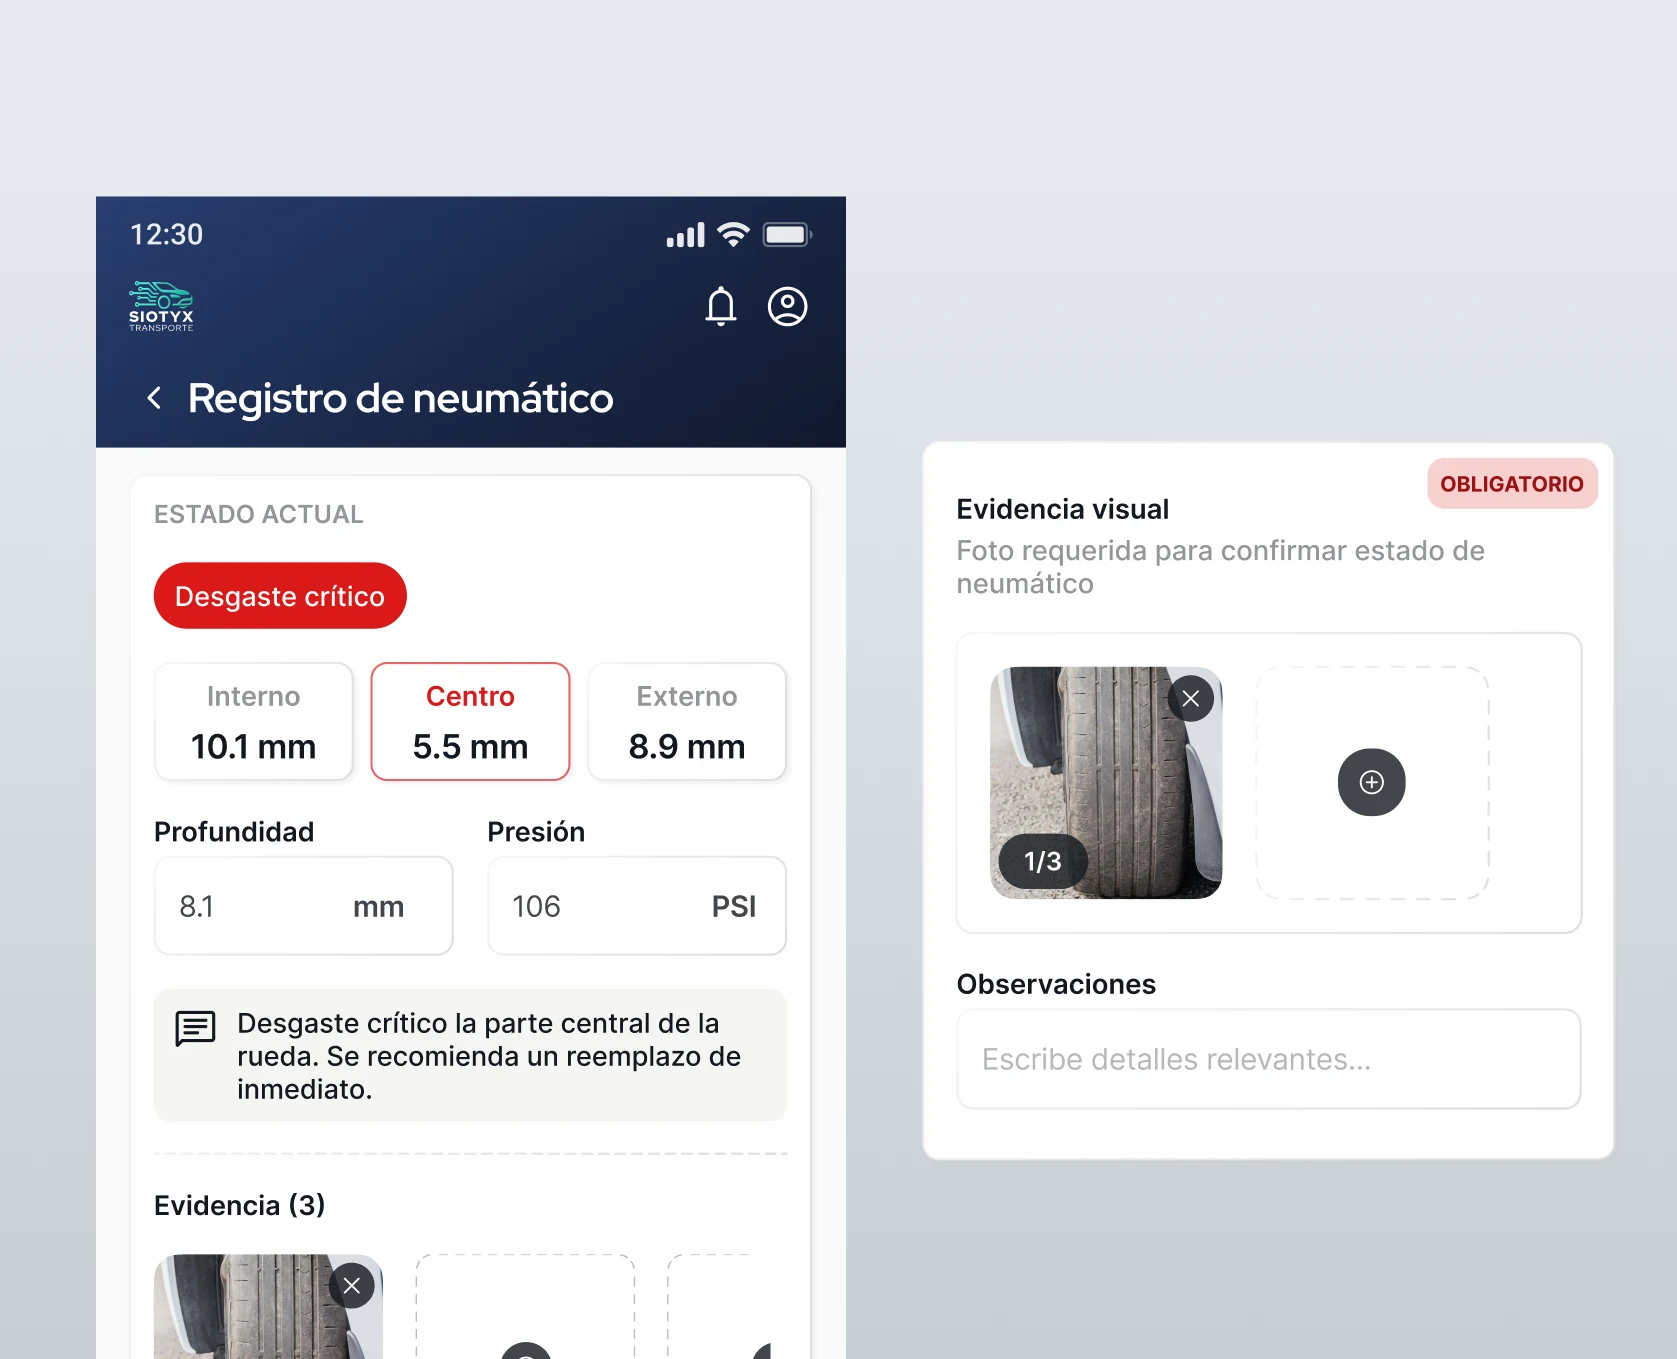
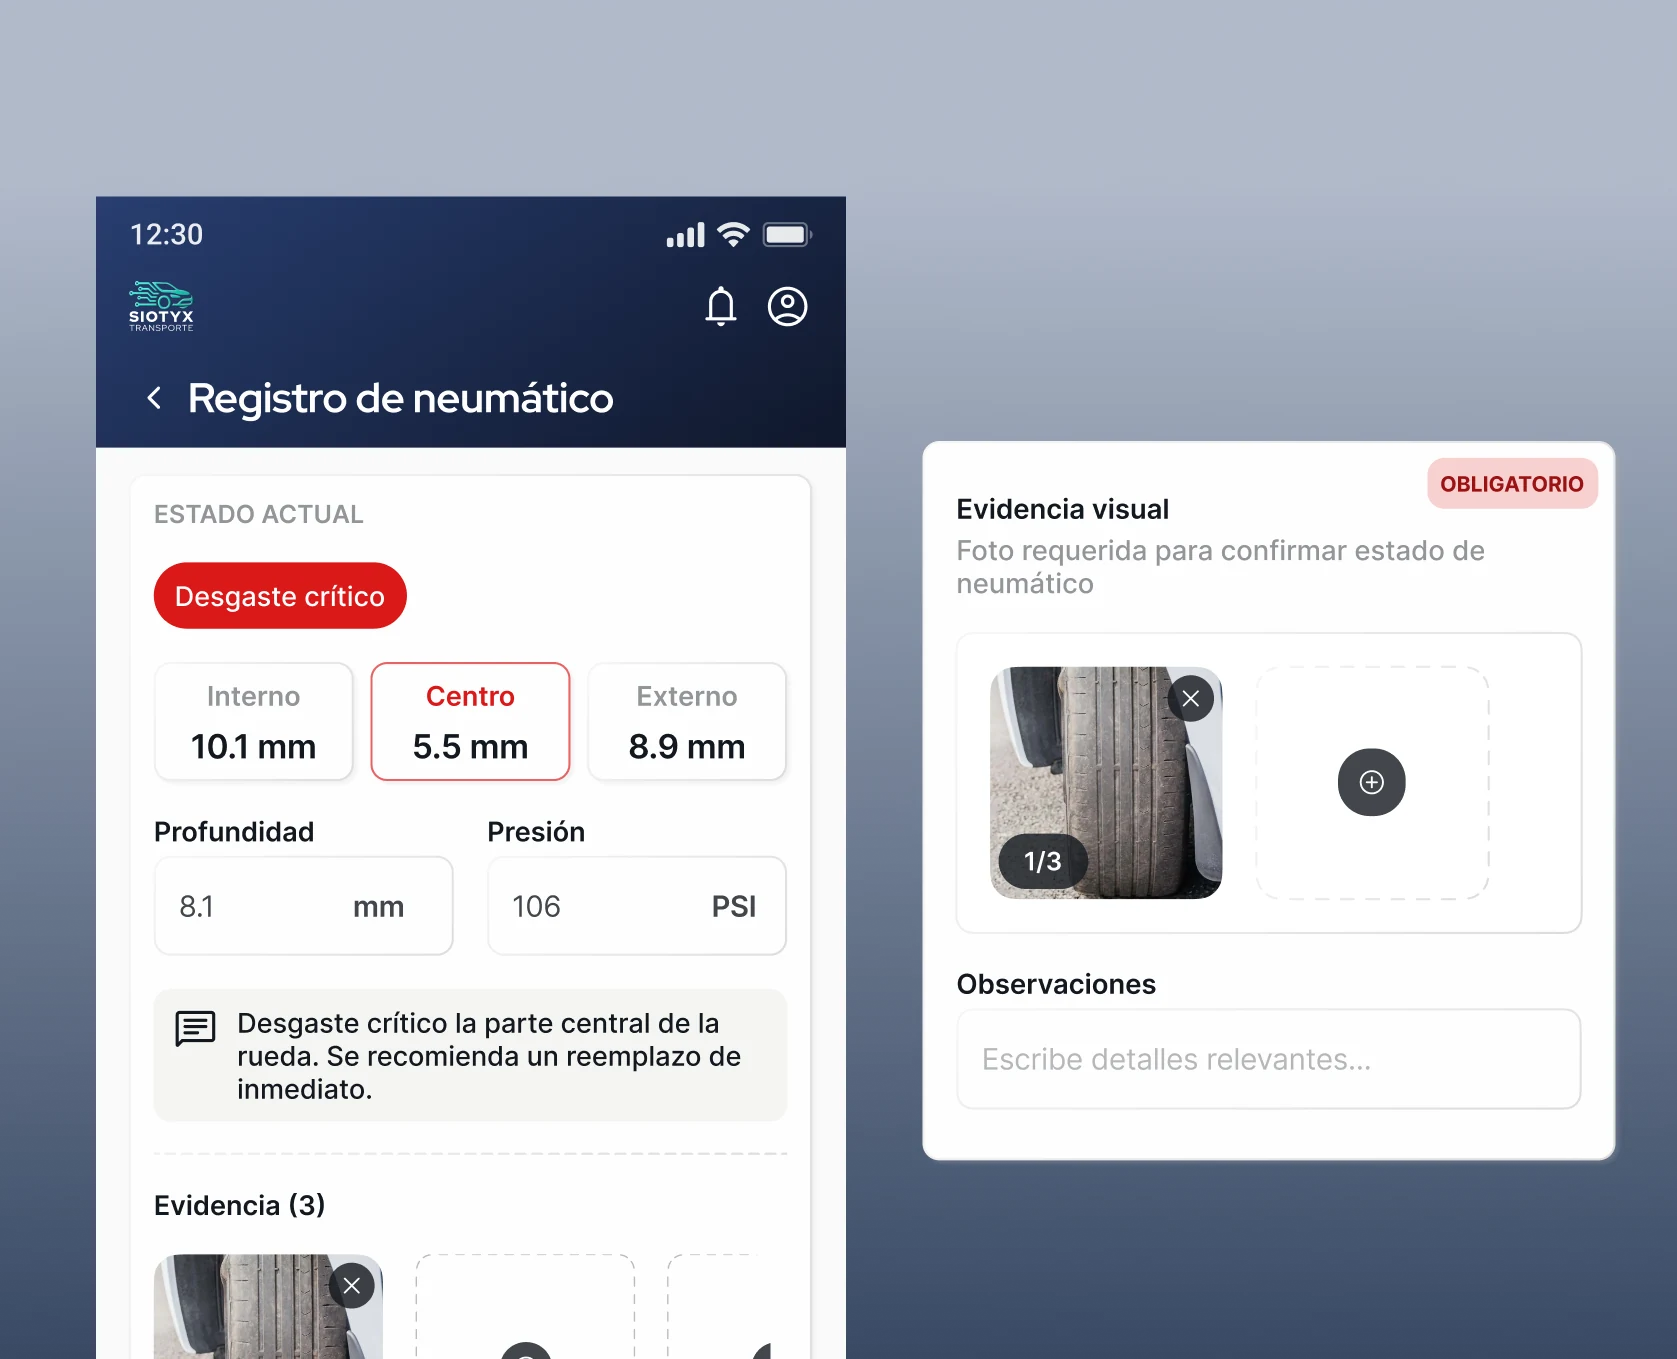
Correcciones de imagenes cards finales de transporte siotyx

diff --git a/pages/casos-de-estudio/transporte.html b/pages/casos-de-estudio/transporte.html
@@ -29,7 +29,7 @@
   <link rel="stylesheet" href="../../css/pages/caso.css?v=19">
   <!-- Capa editorial propia de ESTE caso: columnas alternadas, clímax,
        grilla despareja. Ver comentarios en el propio archivo. -->
-  <link rel="stylesheet" href="../../css/pages/caso-transporte.css?v=56">
+  <link rel="stylesheet" href="../../css/pages/caso-transporte.css?v=57">
 </head>
 <body>
 
@@ -337,11 +337,6 @@
       <h2>Tres decisiones chicas</h2>
       <div class="detalles">
         <article class="detalle">
-          <h3>Un número que sube no siempre es buena noticia</h3>
-          <p>Cada indicador tiene su propia regla de polaridad: viajes finalizados sube y es verde, unidades en taller sube y es rojo, y la disponibilidad de flota no tiene dirección, tiene un rango.</p>
-          <div class="detalle__visor"><img src="../../assets/images/casos-de-estudio/transporte/deci-dashboard.webp" alt="Dashboard con cuatro indicadores, cada uno con su color segun su regla de polaridad." loading="lazy"></div>
-        </article>
-        <article class="detalle">
           <h3>La foto es obligatoria solo cuando hay algo que mostrar</h3>
           <p>Cuando el estado es crítico, el registro pide evidencia visual. La foto no es un trámite: es lo que confirma el diagnóstico.</p>
           <div class="detalle__visor"><img src="../../assets/images/casos-de-estudio/transporte/deci-card2.webp" alt="Registro de neumatico en estado critico con evidencia visual marcada como obligatoria." loading="lazy"></div>
@@ -350,6 +345,11 @@
           <h3>Lo que no se puede deshacer, se confirma</h3>
           <p>Ver detalles o asignar etiqueta son directos. Eliminar, que borra el vehículo del sistema sin vuelta atrás, siempre frena con una confirmación.</p>
           <div class="detalle__visor"><img src="../../assets/images/casos-de-estudio/transporte/deci-card1.webp" alt="Listado de neumaticos con menu de acciones y confirmacion antes de eliminar." loading="lazy"></div>
+        </article>
+        <article class="detalle">
+          <h3>Una sola baja para el neumático y para el camión</h3>
+          <p>El formulario de baja es el mismo componente para un neumático y para un vehículo: cambia solo el dato de cabecera (medida y DOT, o dominio) y el resto (motivo, observaciones, evidencia, confirmación) se mantiene. Un patrón que escala, no dos pantallas.</p>
+          <div class="detalle__visor"><img src="../../assets/images/casos-de-estudio/transporte/deci-baja.webp" alt="Dos formularios de baja con el mismo componente: uno de neumatico y otro de vehiculo, con motivo, observaciones y evidencia." loading="lazy"></div>
         </article>
       </div>
     </section>

diff --git a/css/pages/caso-transporte.css b/css/pages/caso-transporte.css
@@ -254,15 +254,12 @@
 /* ── 13 · TIRA DE DETALLES — grilla deliberadamente despareja ── */
 .detalles {
   display: grid;
-  grid-template-columns: repeat(2, 1fr);
+  grid-template-columns: repeat(3, 1fr);
   gap: var(--espacio-4);
   margin-top: var(--espacio-4);
 }
-
-/* El primero manda: ancho completo. Los otros tres, en fila debajo. */
-.detalle:first-child {
-  grid-column: 1 / -1;
-}
+/* Tres decisiones parejas: mismo gradiente, misma jerarquía (antes había
+   una ancha + dos; ahora las tres comparten tamaño porque son un set). */
 
 .detalle {
   border: 1px solid var(--color-borde-claro);
